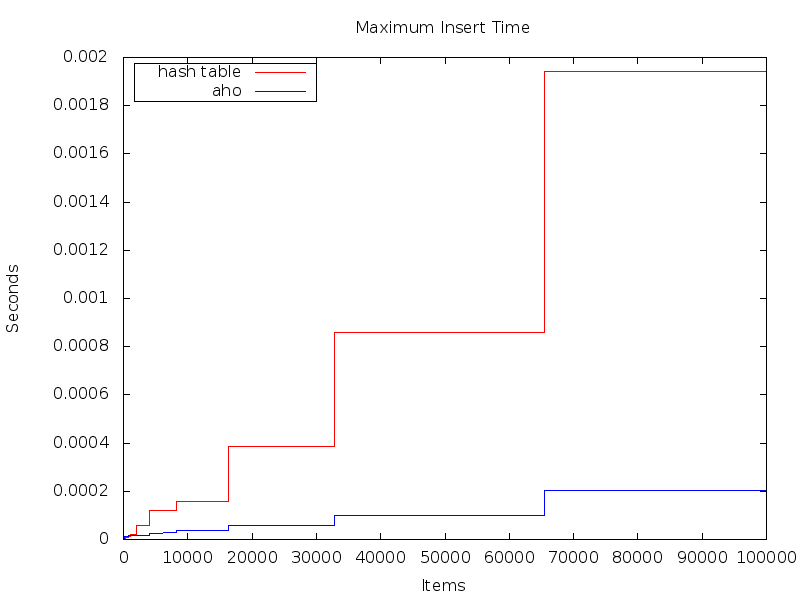
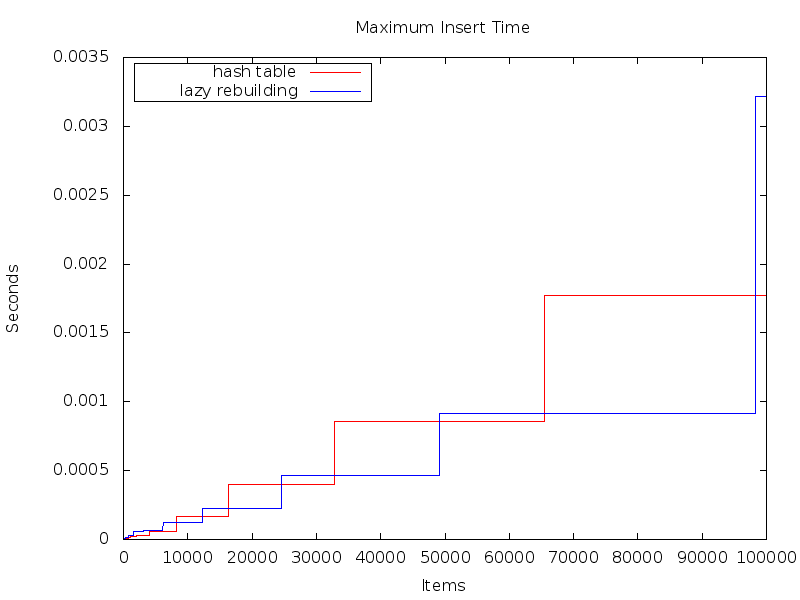
README with graphs

diff --git a/src/benchmark/insert-maxtime.cc b/src/benchmark/insert-maxtime.cc
@@ -120,7 +120,7 @@ int main(int argc, char ** argv) {
     test<table, tree>(size, samples);
     break;
   case 1:
-    test<table, try3>(size, samples);
+    test<table, try1>(size, samples);
     break;
   case 2:
     test<table, try2>(size, samples);

diff --git a/README.md b/README.md
@@ -2,6 +2,20 @@ Deamortized Hash Tables
 ======================
 
 Hash tables are usually very fast, but have some very slow operations when there are too many collisions or rehashing is required.
-For instance, here is a graph of the average maximum insert time of elements into a hash table and a trie:
+For instance, here is a graph of the maximum insert time of elements into a hash table and a balanced binary search tree:
 
-![](src/benchmark/insert-maxtime.png "Average Maximum Insert Time")
+![](src/benchmark/insert-maxtime-0.png "Maximum Insert Time")
+
+The hash table is much slower on its slowers insertions.
+Here is a comparison between the standard hash table and a variant designed to spread the cost of the longest operations across many operations, thus reducing the maximum insert time:
+
+![](src/benchmark/insert-maxtime-1.png "Maximum Insert Time")
+
+This is a partial deamortization of the hash table - it's performance is now reasonable not only in the amortized sense, but also in the worst-case.
+
+Here is a zoomed-in comparison of the maximum cost of insertions in the partially deamortized hash table and the balanced binary search tree.
+As you can see, the operations still can be more expensive than in the tree:
+
+![](src/benchmark/insert-maxtime-2.png "Maximum Insert Time")
+
+However, they are still much better than in the basic hash table.
